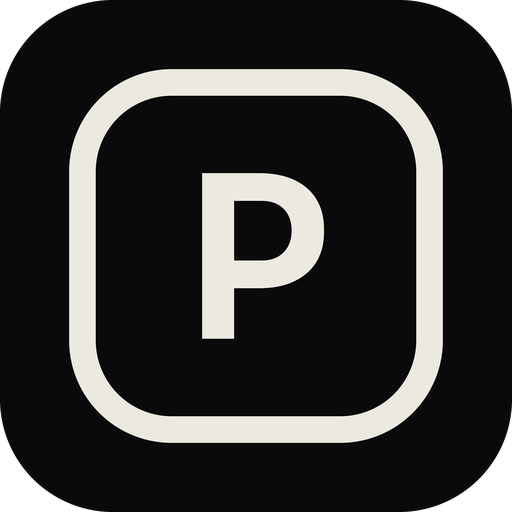
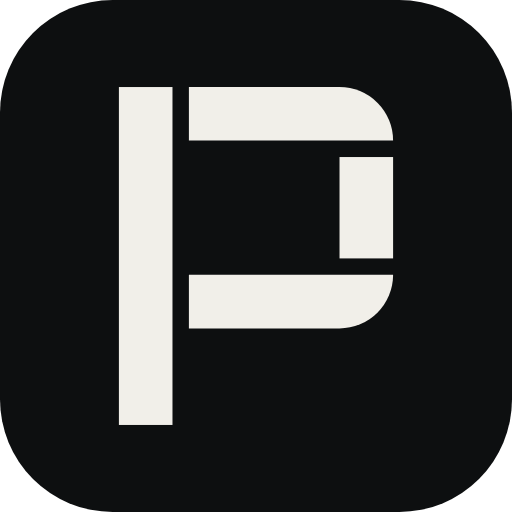
small updates

diff --git a/src/components/PraxioLogo.jsx b/src/components/PraxioLogo.jsx
@@ -1,20 +1,24 @@
-// The "praxio" logotype supplied as a ready-made SVG — a single compound
-// path (letterforms + the surrounding rounded-rect badge) exported from
-// 3ds Max, dropped in as-is. fill="currentColor" so it inherits whatever
-// color the header/wherever else it's used already has (matching how the
-// old icon mark worked), rather than staying locked to the purple it was
-// originally colored — swap the wrapping element's `color` to try it in
-// the source purple (#911CB1) or any other color instead.
+// The praxio wordmark (C4·2): lowercase "praxio" in Syne 600 with the letter p
+// replaced by a p built from parts, a stem plus a bowl in three pieces with
+// rounded outer ends, drawn to the same stroke weight as the letters.
+// Masters and the design history are in the Project's branding folder.
+// fill="currentColor", so it takes the colour of whatever it sits in.
 export default function PraxioLogo({ className }) {
   return (
     <svg
       className={className}
-      viewBox="0 0 1364 530"
+      viewBox="0 -71.0 317.8 91.0"
       xmlns="http://www.w3.org/2000/svg"
       fill="currentColor"
       aria-hidden="true"
     >
-      <path fillRule="evenodd" d="M359.391357,356.967651C359.391357,287.697144,359.391357,218.426651,359.391357,149.156158C367.247467,149.156158,375.103577,149.156158,382.959656,149.156158L382.959717,207.715973C385.958801,191.235519,391.830139,178.193878,400.640625,168.605667C413.997925,154.069366,434.948059,146.801224,463.491028,146.801224C463.491028,146.801224,466.829559,146.801224,470.168091,146.801224C470.168091,155.707092,470.168091,164.613007,470.168091,173.518890C464.082092,173.518890,457.996155,173.518890,457.996155,173.518890C435.468201,173.518890,418.312134,179.344772,406.528015,190.996521C394.743805,202.648239,388.851776,219.734955,388.851776,242.256622C388.851776,242.256622,388.851776,299.612152,388.851776,356.967651C379.031616,356.967651,369.211487,356.967651,359.391357,356.967651zM639.752075,280.361206C639.752075,271.196838,639.752075,262.032410,639.752075,252.868011C609.700562,252.868011,579.649109,252.868027,579.649109,252.868027C563.148743,252.868027,550.511841,256.862274,541.738342,264.850800C532.964844,272.839294,528.578125,283.248932,528.578125,296.079742C528.578125,309.175354,533.161926,319.584991,542.329468,327.308655C551.497070,335.032349,563.936890,338.894196,579.649109,338.894196C589.339966,338.894196,598.636780,337.127228,607.539551,333.593262C616.442261,330.059235,623.905884,324.036316,629.930359,315.524536C635.954834,307.012695,639.228760,295.291595,639.752075,280.361206zM644.471313,315.127136C642.680298,321.051178,640.324097,326.422150,637.397095,331.238281C631.110962,341.581726,622.599121,349.373199,611.861633,354.612732C601.124146,359.852234,588.555054,362.471954,574.154236,362.471954C559.488647,362.471954,546.525513,359.852234,535.264648,354.612732C524.003845,349.373199,515.294922,341.777191,509.138123,331.824677C502.981201,321.872131,499.902710,309.824768,499.902710,295.682495C499.902710,281.805084,503.112030,270.020935,509.530579,260.330078C515.949097,250.639191,525.245911,243.240204,537.420959,238.133102C549.596069,233.026001,564.327820,230.472473,581.616272,230.472473C581.616272,230.472473,639.752075,230.472473,639.752075,230.472473C639.752075,225.563965,639.752075,220.655487,639.752075,220.655487C639.752075,205.201797,635.693176,193.351440,627.575439,185.104431C619.457642,176.857422,606.886963,172.733917,589.863281,172.733917C582.007202,172.733917,574.084839,172.864716,566.096375,173.126404C558.107849,173.388062,550.513428,173.714325,543.313049,174.105255C536.112671,174.496155,529.763489,174.953293,524.265503,175.476608C524.265503,175.476608,524.265503,149.553360,524.265503,149.553360C530.021973,149.030029,535.912476,148.506714,541.937012,147.983414C547.961487,147.460098,554.181396,147.132248,560.596802,146.999817C567.012207,146.867432,573.233704,146.801224,579.261353,146.801224C600.471558,146.801224,617.558228,149.420959,630.521423,154.660461C643.484619,159.899979,652.978516,168.083923,659.002930,179.212357C665.027466,190.340790,668.039673,205.072540,668.039673,223.407623C668.039673,223.407623,668.039673,290.187653,668.039673,356.967651C660.183594,356.967651,652.327515,356.967651,644.471375,356.967651C644.471375,343.020813,644.471313,329.073975,644.471313,315.127136zM715.791016,356.967651L790.066833,251.233490L720.510315,149.156158C731.247864,149.156158,741.985413,149.156158,752.722900,149.156158C771.054810,176.393982,789.386841,203.631821,807.718750,230.869675C809.550415,230.869675,811.381958,230.869675,813.213623,230.869675C830.628174,203.631821,848.042725,176.393982,865.457275,149.156158C875.542297,149.156158,885.627197,149.156158,895.712158,149.156158L830.320374,248.190033L908.669067,356.967651C897.931519,356.967651,887.193970,356.967651,876.456421,356.967651C855.246277,327.504120,834.036011,298.040588,812.825867,268.577087C811.123535,268.577057,809.421082,268.577057,807.718750,268.577087C787.157959,298.040588,766.597229,327.504120,746.036377,356.967651C735.954590,356.967651,725.872803,356.967651,715.791016,356.967651zM996.274536,149.156158C996.274536,218.426651,996.274536,287.697144,996.274536,356.967651C986.583740,356.967651,976.892822,356.967651,967.202026,356.967651C967.202026,295.556396,967.201904,234.145172,967.201904,172.733917C956.070435,172.733917,944.938843,172.733917,933.807251,172.733917C933.807251,164.874649,933.807251,157.015396,933.807251,149.156158C954.629639,149.156158,975.452148,149.156158,996.274536,149.156158zM973.491272,110.663773C966.416992,110.663773,961.112793,108.764359,957.578857,104.965591C954.044861,101.166779,952.277893,96.389145,952.277893,90.632614C952.277893,84.869781,954.044861,80.088974,957.578857,76.290192C961.112793,72.491394,966.416992,70.592003,973.491272,70.592003C980.559204,70.592003,985.795593,72.491394,989.200317,76.290192C992.604980,80.088974,994.307373,84.869781,994.307373,90.632614C994.307373,96.389145,992.604980,101.166779,989.200317,104.965591C985.795593,108.764359,980.559204,110.663773,973.491272,110.663773zM1166.728516,363.644714C1148.923096,363.644714,1133.275391,360.567871,1119.785889,354.414093C1106.296143,348.260376,1094.902954,340.011780,1085.606079,329.668335C1076.309326,319.324890,1069.238281,307.736206,1064.392822,294.902283C1059.547363,282.068329,1057.124634,268.974304,1057.124634,255.620193C1057.124634,255.620193,1057.124634,250.115845,1057.124634,250.115845C1057.124634,236.761765,1059.613525,223.603088,1064.591309,210.639923C1069.569214,197.676697,1076.771240,186.088013,1086.197266,175.873840C1095.623291,165.659637,1107.081177,157.475662,1120.570801,151.321930C1134.060547,145.168182,1149.446411,142.091339,1166.728516,142.091339C1184.275513,142.091339,1199.792358,145.168182,1213.278809,151.321930C1226.765259,157.475662,1238.223145,165.659637,1247.652466,175.873840C1257.081543,186.088013,1264.218994,197.676697,1269.064331,210.639923C1273.909912,223.603088,1276.332520,236.761765,1276.332520,250.115845C1276.332520,250.115845,1276.332520,255.620193,1276.332520,255.620193C1276.332520,268.974304,1273.974487,282.068329,1269.258301,294.902283C1264.542114,307.736206,1257.535522,319.324890,1248.238770,329.668335C1238.941895,340.011780,1227.484131,348.260376,1213.865234,354.414093C1200.246338,360.567871,1184.533936,363.644714,1166.728516,363.644714zM1166.728516,337.324249C1184.010742,337.324249,1198.610107,333.462402,1210.526733,325.738708C1222.443237,318.015015,1231.544678,307.802399,1237.830688,295.100861C1244.116821,282.399323,1247.259888,268.321716,1247.259888,252.868027C1247.259888,237.155823,1244.052246,222.948944,1237.636841,210.247421C1231.221436,197.545898,1221.989258,187.462494,1209.940308,179.997330C1197.891357,172.532135,1183.487427,168.799561,1166.728516,168.799561C1150.228271,168.799561,1135.955200,172.532135,1123.909302,179.997330C1111.863525,187.462494,1102.632935,197.545898,1096.217529,210.247421C1089.802246,222.948944,1086.594482,237.155823,1086.594482,252.868027C1086.594482,268.321716,1089.736084,282.399323,1096.019043,295.100861C1102.302002,307.802399,1111.401611,318.015015,1123.318237,325.738708C1135.234863,333.462402,1149.704834,337.324249,1166.728516,337.324249zM127.667122,319.437317L127.667084,435.531860C117.834702,435.531860,108.002357,435.531860,98.169975,435.531860C98.169937,339.954407,98.169937,244.376984,98.169975,148.799576C106.035843,148.799576,113.901749,148.799576,121.767654,148.799576L121.767654,200.301132C123.591461,195.135208,125.752220,190.294174,128.258850,185.772720C136.254242,171.350861,147.136078,160.404282,160.904541,152.933029C174.672974,145.461670,190.076447,141.726013,207.114990,141.726013C222.329102,141.726013,236.162231,144.675690,248.614471,150.575134C261.066650,156.474533,271.684998,164.471420,280.469391,174.565720C289.253845,184.660095,295.940735,196.196884,300.530243,209.176254C305.119751,222.155548,307.414429,235.725220,307.414429,249.885040C307.414429,249.885040,307.414429,255.396210,307.414429,255.396210C307.414429,269.556000,305.054993,283.125641,300.336121,296.104980C295.617249,309.084290,288.865540,320.621155,280.081146,330.715485C271.296722,340.809814,260.676880,348.806702,248.221466,354.706085C235.766113,360.605499,221.801941,363.555237,206.329041,363.555237C189.814484,363.555237,174.672974,359.819580,160.904541,352.348206C147.237778,344.932098,136.161957,333.959808,127.667122,319.437317zM202.399261,337.599731C218.131027,337.599731,231.634338,333.862457,242.909164,326.387939C254.183990,318.913513,262.837402,308.686584,268.869446,295.707245C274.901398,282.727936,277.917450,268.372375,277.917450,252.640610C277.917450,236.384918,274.836731,221.898346,268.675293,209.181000C262.513885,196.463638,253.795776,186.367706,242.520935,178.893219C231.246109,171.418762,217.872192,167.681519,202.399261,167.681519C188.239441,167.681519,175.391083,170.828476,163.854218,177.122513C152.317383,183.416458,143.206299,192.267059,136.520920,203.674561C129.835510,215.081970,126.492844,228.518951,126.492844,243.985626C126.492844,243.985626,126.492844,263.255768,126.492844,263.255768C126.492844,277.939575,129.835510,290.854218,136.520920,301.999634C143.206299,313.145081,152.317383,321.864777,163.854218,328.158752C175.391083,334.452759,188.239441,337.599731,202.399261,337.599731zM1258.867798,0.000000C1152.175415,0.000000,211.631622,0.000000,104.939232,0.000000C47.028732,0.000000,0.000000,47.028713,0.000000,104.939194C0.000000,211.631607,0.000000,318.368469,0.000000,425.060852C0.000000,482.971375,47.028770,530.000061,104.939156,530.000061C211.631622,530.000061,1152.175415,530.000061,1258.867798,530.000061C1316.778320,530.000061,1363.807129,482.971344,1363.807129,425.060852C1363.807129,318.368469,1363.807129,211.631607,1363.807129,104.939194C1363.807129,47.028713,1316.778320,0.000000,1258.867798,0.000000zM1258.786743,20.000038C1152.130737,20.000038,211.676361,20.000038,105.020294,20.000038C58.108025,20.000038,20.000000,58.107948,20.000000,105.020203C20.000000,211.676254,20.000000,318.323761,20.000000,424.979828C20.000000,471.892090,58.107986,510.000031,105.020180,510.000031C211.676300,510.000031,1152.130737,510.000031,1258.786743,510.000031C1305.699219,510.000031,1343.807129,471.892090,1343.807129,424.979858C1343.807129,318.323730,1343.807129,211.676300,1343.807129,105.020203C1343.807129,58.107891,1305.699219,20.000038,1258.786743,20.000038z" />
+      {/* the built p */}
+      <rect x="0" y="-50.00" width="11.10" height="70.00" rx="1.20" />
+      <path d="M14.50 -50.00 H45.70 A11.10 11.10 0 0 1 56.80 -38.90 H14.50 Z" />
+      <path d="M14.50 -11.10 H56.80 A11.10 11.10 0 0 1 45.70 0 H14.50 Z" />
+      <rect x="45.70" y="-35.50" width="11.10" height="21.00" rx="1.20" />
+      {/* "raxio" */}
+      <path transform="translate(66.70 0)" d="M6.2 -49.800000000000004H17.3V0.0H6.2ZM35.300000000000004 -40.300000000000004Q29.900000000000002 -40.300000000000004 26.050000000000004 -38.0Q22.200000000000003 -35.7 19.900000000000002 -32.400000000000006Q17.6 -29.1 16.7 -26.0L16.6 -31.6Q16.7 -32.7 17.3 -34.95Q17.900000000000002 -37.2 19.150000000000002 -39.900000000000006Q20.400000000000002 -42.6 22.550000000000004 -45.150000000000006Q24.700000000000003 -47.7 27.85 -49.300000000000004Q31.0 -50.900000000000006 35.300000000000004 -50.900000000000006ZM65.9 1.1Q59.1 1.1 53.45 -2.2Q47.8 -5.5 44.45 -11.35Q41.1 -17.2 41.1 -24.8Q41.1 -32.6 44.5 -38.45Q47.9 -44.300000000000004 53.7 -47.60000000000001Q59.5 -50.900000000000006 66.7 -50.900000000000006Q74.7 -50.900000000000006 79.4 -47.400000000000006Q84.1 -43.900000000000006 86.1 -38.0Q88.1 -32.1 88.1 -24.8Q88.1 -20.700000000000003 86.9 -16.150000000000002Q85.7 -11.600000000000001 83.15 -7.700000000000001Q80.6 -3.8000000000000003 76.35 -1.35Q72.1 1.1 65.9 1.1ZM69.3 -8.1Q74.9 -8.1 78.85000000000001 -10.25Q82.80000000000001 -12.4 84.85000000000001 -16.2Q86.9 -20.0 86.9 -24.8Q86.9 -30.1 84.80000000000001 -33.85Q82.7 -37.6 78.80000000000001 -39.650000000000006Q74.9 -41.7 69.3 -41.7Q61.3 -41.7 56.9 -37.0Q52.5 -32.300000000000004 52.5 -24.8Q52.5 -19.900000000000002 54.65 -16.1Q56.8 -12.3 60.6 -10.2Q64.4 -8.1 69.3 -8.1ZM86.9 -49.800000000000004H98.1V0.0H87.7Q87.7 0.0 87.5 -1.9000000000000001Q87.30000000000001 -3.8000000000000003 87.10000000000001 -6.550000000000001Q86.9 -9.3 86.9 -11.8ZM160.9 -49.800000000000004 137.5 -22.3 119.9 0.0H106.30000000000001L130.9 -29.0L147.4 -49.800000000000004ZM106.30000000000001 -49.800000000000004H120.00000000000001L137.60000000000002 -29.0L162.20000000000002 0.0H148.60000000000002L130.4 -22.1ZM183.60000000000002 -70.9V-60.2H170.3V-70.9ZM171.3 -49.800000000000004H182.5V0.0H171.3ZM222.3 1.1Q214.00000000000003 1.1 207.40000000000003 -1.9000000000000001Q200.8 -4.9 197.0 -10.7Q193.20000000000002 -16.5 193.20000000000002 -24.8Q193.20000000000002 -33.0 197.0 -38.85Q200.8 -44.7 207.40000000000003 -47.800000000000004Q214.00000000000003 -50.900000000000006 222.3 -50.900000000000006Q230.60000000000002 -50.900000000000006 237.10000000000002 -47.800000000000004Q243.60000000000002 -44.7 247.35000000000002 -38.85Q251.10000000000002 -33.0 251.10000000000002 -24.8Q251.10000000000002 -16.5 247.35000000000002 -10.7Q243.60000000000002 -4.9 237.10000000000002 -1.9000000000000001Q230.60000000000002 1.1 222.3 1.1ZM222.3 -8.0Q227.10000000000002 -8.0 231.10000000000002 -9.9Q235.10000000000002 -11.8 237.45000000000002 -15.600000000000001Q239.8 -19.400000000000002 239.8 -24.8Q239.8 -30.200000000000003 237.45000000000002 -34.0Q235.10000000000002 -37.800000000000004 231.15000000000003 -39.85000000000001Q227.20000000000002 -41.900000000000006 222.3 -41.900000000000006Q217.40000000000003 -41.900000000000006 213.40000000000003 -39.900000000000006Q209.40000000000003 -37.9 206.95000000000005 -34.1Q204.50000000000003 -30.3 204.50000000000003 -24.8Q204.50000000000003 -19.400000000000002 206.90000000000003 -15.600000000000001Q209.3 -11.8 213.35000000000002 -9.9Q217.40000000000003 -8.0 222.3 -8.0Z" />
     </svg>
   );
 }

diff --git a/src/App.jsx b/src/App.jsx
@@ -175,6 +175,7 @@ function HidingHeader() {
         <MotionLink
           to="/"
           className="brand"
+          aria-label="praxio, back to the top of the home page"
           initial={{ opacity: 0, y: -48 }}
           animate={{ opacity: 1, y: 0 }}
           transition={{ duration: 0.7, ease: [0.16, 1, 0.3, 1] }}
@@ -320,7 +321,7 @@ export default function App() {
           color: inherit;
         }
         .brand-logo {
-          height: 34px;
+          height: 26px;
           width: auto;
           flex: 0 0 auto;
           display: block;
@@ -529,7 +530,7 @@ export default function App() {
             padding: 14px var(--page-gutter) 0 !important;
           }
           .brand-logo {
-            height: 26px;
+            height: 21px;
             width: auto;
           }
           .nav-actions { display: none; }

diff --git a/src/components/SiteFooter.jsx b/src/components/SiteFooter.jsx
@@ -92,7 +92,7 @@ export default function SiteFooter() {
         </Reveal>
         <Reveal as="div" className="footer-col" delay={0.08}>
           <div className="footer-heading">Follow</div>
-          <a href="https://www.instagram.com/primedesign09/" target="_blank" rel="noopener noreferrer">
+          <a href="https://www.instagram.com/praxiodesign" target="_blank" rel="noopener noreferrer">
             Instagram
           </a>
         </Reveal>
